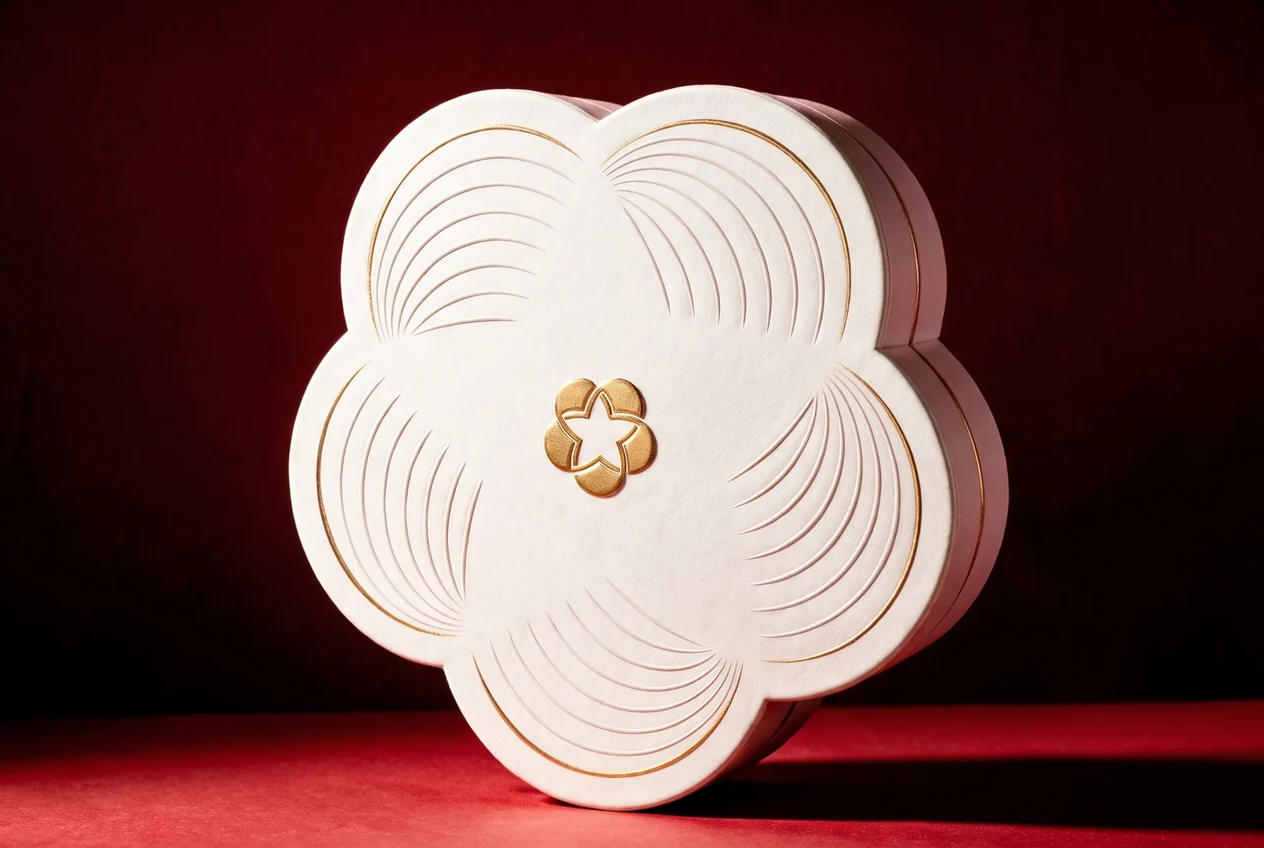
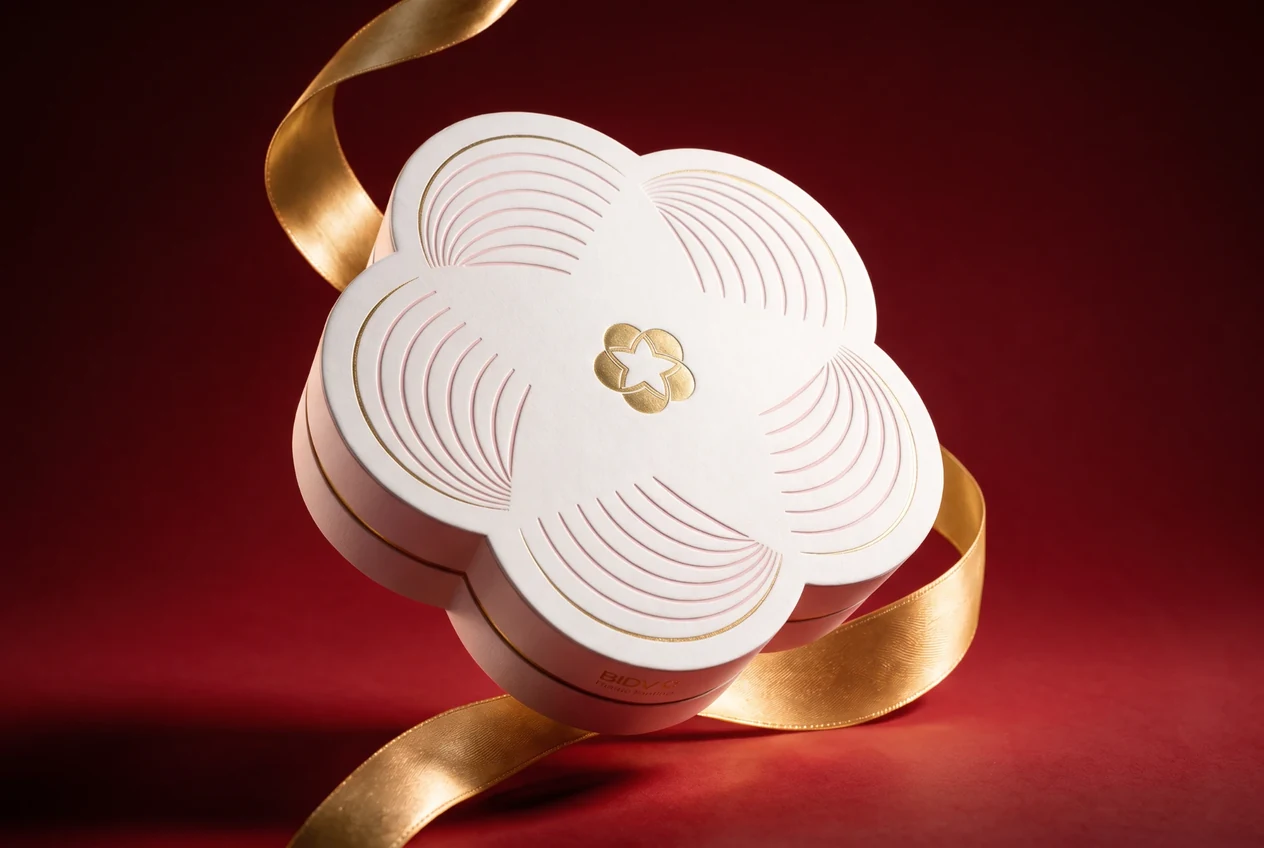
So sánh: đổi ảnh Độc Bản sang ảnh hộp hoa trắng có ruy băng vàng
Claude-Session: https://claude.ai/code/session_01HS1DfBWRuWPnpXQLZtUEUG

diff --git a/src/pages/HomePage.tsx b/src/pages/HomePage.tsx
@@ -258,7 +258,7 @@ function Models() {
   const [open, setOpen] = useState({ ready: false, bespoke: false });
   const cols = [
     { kind: 'ready' as const, img: '/assets/models/so-sanh-set-san.webp', w: 1264, h: 848, alt: 'Sẵn Trao: hộp quà hai cánh đóng kín, nền xanh ngọc và đỏ, họa tiết hoa cúc và ngựa, có quai xách' },
-    { kind: 'bespoke' as const, img: '/assets/models/so-sanh-set-doc-ban.webp', w: 1264, h: 848, alt: 'Hộp quà Độc Bản hình hoa màu trắng, viền vàng và huy hiệu hoa vàng ở giữa' },
+    { kind: 'bespoke' as const, img: '/assets/models/so-sanh-set-doc-ban.webp', w: 1264, h: 848, alt: 'Hộp quà Độc Bản hình hoa màu trắng, huy hiệu hoa vàng ở giữa nắp, dải ruy băng vàng quấn quanh' },
   ];
   return (
     <section className="lx-sec lx-cmp" id="so-sanh" aria-labelledby="lx-cmp-title">
